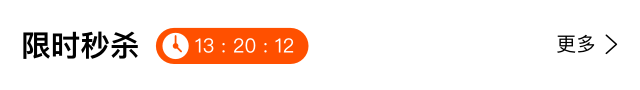
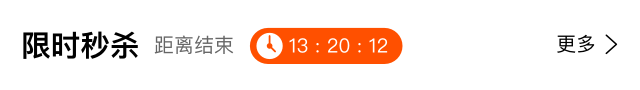
修改秒杀图片

Changed region(s): [[0.2188, 0.2889, 0.6562, 0.7111]]

diff --git a/src/components/model-seckill/index.vue b/src/components/model-seckill/index.vue
@@ -11,7 +11,7 @@
                     <div class="flex-row align-c gap-4">
                         <span class="size-10" :style="`color: ${ new_style.end_text_color }`">距离结束</span>
                         <div class="flex-row gap-3 jc-c align-c" :style="[form.theme == '4'? `${ time_bg };padding: 0.3rem 0.4rem;border-radius: 1.1rem;` : '']">
-                        <img v-if="form.theme == '4'" class="seckill-head-icon radius-xs" :src="url_computer('time')" />
+                        <img v-if="form.theme == '4'" class="seckill-head-icon radius-xs" :src="new_url" />
                         <template v-for="(item, index) in time_config" :key="item.key">
                             <template v-if="form.theme == '4'">
                                 <div class="size-12" :style="`color: ${ new_style.countdown_color }`">{{ item.value }}</div>
@@ -31,7 +31,7 @@
                 </div>
             </div>
             <div class="flex flex-wrap" :style="`gap: ${ content_outer_spacing }px;`">
-                <div v-for="(item, index) in list" :key="index" :class="layout_type" :style="`${ content_radius }; ${ content_padding }`">
+                <div v-for="(item, index) in list" :key="index" :class="layout_type" :style="`${ content_radius }; ${ shop_style_type == '1' ? content_padding : '' }`">
                     <template v-if="!isEmpty(item)">
                         <template v-if="!isEmpty(item.new_cover)">
                             <image-empty v-model="item.new_cover[0]" :class="`flex-img${shop_style_type}`" :style="content_img_radius"></image-empty>
@@ -40,8 +40,8 @@
                             <image-empty v-model="item.images" :class="`flex-img${shop_style_type}`" :style="content_img_radius"></image-empty>
                         </template>
                     </template>
-                    <div class="flex-col gap-10">
-
+                    <div class="flex-col gap-10" :style="content_style">
+                        <div>{{ item.title }}</div>
                     </div>
                 </div>
             </div>
@@ -51,6 +51,7 @@
 <script setup lang="ts">
 import { background_computer, common_styles_computer, gradient_computer, padding_computer, radius_computer } from '@/utils';
 import { isEmpty } from 'lodash';
+import { online_url } from '@/utils';
 
 const props = defineProps({
     value: {
@@ -60,6 +61,12 @@ const props = defineProps({
         },
     },
 });
+const new_url = ref('');
+onBeforeMount(async () => {
+    const url = await online_url('/static/plugins/seckill/images/diy/').then(res => res);
+    new_url.value = url + 'time.png';
+})
+
 const form = computed(() => props.value?.content || {});
 const new_style = computed(() => props.value?.style || {});
 const time_config = [
@@ -157,6 +164,17 @@ const content_radius = computed(() => radius_computer(new_style.value.shop_radiu
 const shop_style_type = computed(() => form.value.shop_style_type);
 // 内边距设置
 const content_padding = computed(() => padding_computer(new_style.value.shop_padding));
+// 内容区域的样式
+const content_style = computed(() => {
+    const spacing_value = new_style.value.content_spacing;
+    let spacing = '';
+    if (shop_style_type.value == '1') {
+        spacing = `margin-left: ${spacing_value}px;`;
+    } else {
+        spacing = content_padding.value;
+    }
+    return `${spacing}`;
+});
 // 不同风格下的样式
 const layout_type = computed(() => {
     let class_type = '';
@@ -190,11 +208,6 @@ const multicolumn_columns_width = computed(() => {
 });
 // 图片圆角设置
 const content_img_radius = computed(() => radius_computer(new_style.value.shop_img_radius));
-
-const url_computer = (name: string) => {
-    const new_url = ref(new URL(`../../assets/images/components/model-seckill/${name}.png`, import.meta.url).href).value;
-    return new_url;
-};
 </script>
 <style lang="scss" scoped>
 :deep(.el-image) {

diff --git a/src/components/model-seckill/model-seckill-styles.vue b/src/components/model-seckill/model-seckill-styles.vue
@@ -1,13 +1,13 @@
 <template>
     <div class="w">
         <el-form :model="form" label-width="70">
-            <template v-if="form.head_state == '1'">
+            <template v-if="data.head_state == '1'">
                 <card-container>
                     <div class="mb-12">头部样式</div>
-                    <el-form-item v-if="form.topic_type == 'text'" label="标题设置">
+                    <el-form-item v-if="data.topic_type == 'text'" label="标题设置">
                         <color-text-size-group v-model:color="form.topic_color" v-model:size="form.topic_size" :default-color="clone_form.topic_color" :type-list="['color', 'size']"></color-text-size-group>
                     </el-form-item>
-                    <el-form-item v-if="form.button_status == '1'" label="按钮设置">
+                    <el-form-item v-if="data.button_status == '1'" label="按钮设置">
                         <color-text-size-group v-model:color="form.head_button_color" v-model:size="form.head_button_size" :default-color="clone_form.head_button_color" :type-list="['color', 'size']"></color-text-size-group>
                     </el-form-item>
                     <el-form-item label="秒杀提示">
@@ -68,13 +68,13 @@
                 <el-form-item label="内间距">
                     <padding :value="form.shop_padding"></padding>
                 </el-form-item>
-                <el-form-item v-if="form.shop_style_type == '1'" label="内容间距">
+                <el-form-item v-if="data.shop_style_type == '1'" label="内容间距">
                     <slider v-model="form.content_spacing" :max="100"></slider>
                 </el-form-item>
                 <el-form-item label="商品间距">
                     <slider v-model="form.content_outer_spacing" :max="100"></slider>
                 </el-form-item>
-                <template v-if="form.shop_style_type == '3'">
+                <template v-if="data.shop_style_type == '3'">
                     <el-form-item label="内容高度">
                         <slider v-model="form.content_outer_height" :max="1000"></slider>
                     </el-form-item>
@@ -93,7 +93,7 @@
                     </div>
                 </el-form-item>
             </card-container>
-            <template v-if="form.shop_style_type == '1'">
+            <template v-if="data.shop_style_type == '1'">
                 <div class="divider-line"></div>
                 <card-container>
                     <div class="mb-12">进度条设置</div>
@@ -114,7 +114,7 @@
                     </el-form-item>
                 </card-container>
             </template>
-            <template v-if="form.shop_style_type == '3'">
+            <template v-if="data.shop_style_type == '3'">
                 <div class="divider-line"></div>
                 <card-container>
                     <div class="mb-12">轮播设置</div>

diff --git a/src/components/model-seckill/model-seckill-setting.vue b/src/components/model-seckill/model-seckill-setting.vue
@@ -136,7 +136,7 @@ onBeforeMount(async () => {
                 style: {
                     topic_color: '#000',
                     head_button_color: '#000',
-                    end_text_color: '',
+                    end_text_color: '#666',
                     header_background_color_list: [{ color: '#fff', color_percentage: undefined }],
                     header_background_img_url: [],
                     countdown_bg_color_list: [{ color: '#FF5000', color_percentage: undefined }],
